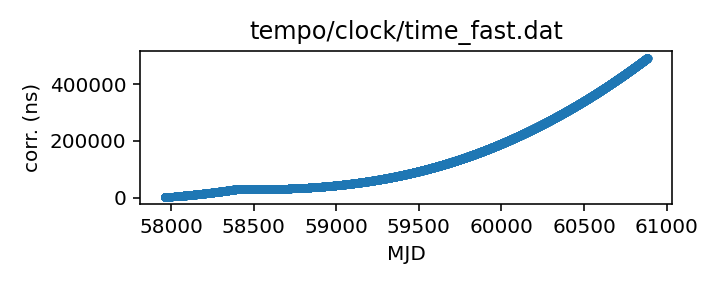
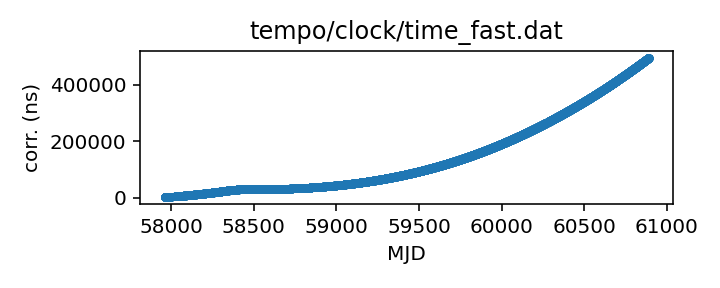
Routine gh-pages update from Github action Mon Aug  4 20:47:59 UTC 2025

diff --git a/status.md b/status.md
@@ -13,18 +13,18 @@ name of each clock file links to a page with more details.
 
 | Name | File | Corrections start | Corrections end | Last check date | Last check result 
 |:--- |:--- | --- | --- | --- |:--- 
-| [GPS to UTC](T2runtime/clock/gps2utc.clk.html) | `T2runtime/clock/gps2utc.clk` | 1993-01-01 MJD 48988.0 | 2025-06-28 MJD 60854.0 | 2025-08-03 | Unchanged 
-| [GPS to UTC (Combined Clock)](T2runtime/clock/gps2utc_cc.clk.html) | `T2runtime/clock/gps2utc_cc.clk` | 1993-01-01 MJD 48988.0 | 2025-06-28 MJD 60854.0 | 2025-08-03 | Unchanged 
-| [GPS to UTC (Corrected)](T2runtime/clock/gps2utc_c0p.clk.html) | `T2runtime/clock/gps2utc_c0p.clk` | 2010-12-29 MJD 55559.0 | 2025-06-28 MJD 60854.0 | 2025-08-03 | Unchanged 
-| [GBT](tempo/clock/time_gbt.dat.html) | `tempo/clock/time_gbt.dat` | 2000-12-31 MJD 51909.5 | 2025-07-28 MJD 60884.5 | 2025-08-03 | Updated 
-| [GBT (TEMPO2 converted from TEMPO)](T2runtime/clock/gbt2gps.clk.html) | `T2runtime/clock/gbt2gps.clk` | 2000-12-31 MJD 51909.5 | 2024-05-18 MJD 60448.5 | 2025-08-03 | **Validation failed** 
-| [Jodrell Bank](T2runtime/clock/jb2gps.clk.html) | `T2runtime/clock/jb2gps.clk` | 2006-10-13 MJD 54021.4 | 2024-11-07 MJD 60621.0 | 2025-07-28 | Unchanged 
-| [Jodrell Bank Roach](T2runtime/clock/jbroach2jb.clk.html) | `T2runtime/clock/jbroach2jb.clk` | 2006-10-13 MJD 54021.4 | 2018-03-20 MJD 58197.6 | 2025-07-28 | Unchanged 
-| [Jodrell Bank DFB](T2runtime/clock/jbdfb2jb.clk.html) | `T2runtime/clock/jbdfb2jb.clk` | 2006-10-13 MJD 54021.4 | 2021-02-22 MJD 59268.0 | 2025-07-28 | Unchanged 
-| [Meerkat (observatory)](T2runtime/clock/mk2utc_observatory.clk.html) | `T2runtime/clock/mk2utc_observatory.clk` | 2019-01-01 MJD 58484.0 | 2025-07-17 MJD 60874.0 | 2025-07-28 | Updated 
-| [Leap seconds](tempo/clock/leap.sec.html) | `tempo/clock/leap.sec` | 1972-07-01 MJD 41499.0 | 2017-01-01 MJD 57754.0 | 2025-08-03 | Unchanged 
-| [UT1 table](tempo/clock/ut1.dat.html) | `tempo/clock/ut1.dat` | 1973-01-02 MJD 41684.0 | 2026-08-08 MJD 61260.0 | 2025-08-03 | Unchanged 
-| [UT1 table](T2runtime/clock/ut1.dat.html) | `T2runtime/clock/ut1.dat` | 1973-01-02 MJD 41684.0 | 2026-08-08 MJD 61260.0 | 2025-08-03 | Unchanged 
+| [GPS to UTC](T2runtime/clock/gps2utc.clk.html) | `T2runtime/clock/gps2utc.clk` | 1993-01-01 MJD 48988.0 | 2025-06-28 MJD 60854.0 | 2025-08-04 | Unchanged 
+| [GPS to UTC (Combined Clock)](T2runtime/clock/gps2utc_cc.clk.html) | `T2runtime/clock/gps2utc_cc.clk` | 1993-01-01 MJD 48988.0 | 2025-06-28 MJD 60854.0 | 2025-08-04 | Unchanged 
+| [GPS to UTC (Corrected)](T2runtime/clock/gps2utc_c0p.clk.html) | `T2runtime/clock/gps2utc_c0p.clk` | 2010-12-29 MJD 55559.0 | 2025-06-28 MJD 60854.0 | 2025-08-04 | Unchanged 
+| [GBT](tempo/clock/time_gbt.dat.html) | `tempo/clock/time_gbt.dat` | 2000-12-31 MJD 51909.5 | 2025-07-28 MJD 60884.5 | 2025-08-04 | Updated 
+| [GBT (TEMPO2 converted from TEMPO)](T2runtime/clock/gbt2gps.clk.html) | `T2runtime/clock/gbt2gps.clk` | 2000-12-31 MJD 51909.5 | 2024-05-18 MJD 60448.5 | 2025-08-04 | **Validation failed** 
+| [Jodrell Bank](T2runtime/clock/jb2gps.clk.html) | `T2runtime/clock/jb2gps.clk` | 2006-10-13 MJD 54021.4 | 2024-11-07 MJD 60621.0 | 2025-08-04 | Unchanged 
+| [Jodrell Bank Roach](T2runtime/clock/jbroach2jb.clk.html) | `T2runtime/clock/jbroach2jb.clk` | 2006-10-13 MJD 54021.4 | 2018-03-20 MJD 58197.6 | 2025-08-04 | Unchanged 
+| [Jodrell Bank DFB](T2runtime/clock/jbdfb2jb.clk.html) | `T2runtime/clock/jbdfb2jb.clk` | 2006-10-13 MJD 54021.4 | 2021-02-22 MJD 59268.0 | 2025-08-04 | Unchanged 
+| [Meerkat (observatory)](T2runtime/clock/mk2utc_observatory.clk.html) | `T2runtime/clock/mk2utc_observatory.clk` | 2019-01-01 MJD 58484.0 | 2025-07-17 MJD 60874.0 | 2025-08-04 | **Failed to download** 
+| [Leap seconds](tempo/clock/leap.sec.html) | `tempo/clock/leap.sec` | 1972-07-01 MJD 41499.0 | 2017-01-01 MJD 57754.0 | 2025-08-04 | Unchanged 
+| [UT1 table](tempo/clock/ut1.dat.html) | `tempo/clock/ut1.dat` | 1973-01-02 MJD 41684.0 | 2026-08-08 MJD 61260.0 | 2025-08-04 | Unchanged 
+| [UT1 table](T2runtime/clock/ut1.dat.html) | `T2runtime/clock/ut1.dat` | 1973-01-02 MJD 41684.0 | 2026-08-08 MJD 61260.0 | 2025-08-04 | Unchanged 
 
 
 
@@ -68,26 +68,26 @@ name of each clock file links to a page with more details.
 
 | Name | File | Corrections start | Corrections end | Last check date | Last check result 
 |:--- |:--- | --- | --- | --- |:--- 
-| [GPS to UTC (TEMPO2)](T2runtime/clock/gpst2utc_tempo2.clk.html) | `T2runtime/clock/gpst2utc_tempo2.clk` | 1993-01-01 MJD 48988.0 | 2024-12-30 MJD 60674.0 | 2025-07-28 | Unchanged 
-| [GBT (TEMPO2)](T2runtime/clock/gbt2gps_tempo2.clk.html) | `T2runtime/clock/gbt2gps_tempo2.clk` | 2000-12-31 MJD 51909.5 | 2020-02-25 MJD 58904.5 | 2025-07-28 | Unchanged 
-| [Jodrell Bank (TEMPO)](tempo/clock/time_jb.dat.html) | `tempo/clock/time_jb.dat` | 2006-10-13 MJD 54021.4 | 2019-05-13 MJD 58616.2 | 2025-07-28 | Unchanged 
-| [VLA](tempo/clock/time_vla.dat.html) | `tempo/clock/time_vla.dat` | 1990-10-27 MJD 48191.2 | 2025-02-10 MJD 60716.2 | 2025-07-28 | Unchanged 
-| [VLA (TEMPO2)](T2runtime/clock/vla2gps.clk.html) | `T2runtime/clock/vla2gps.clk` | 2015-02-01 MJD 57054.6 | 2025-02-10 MJD 60716.2 | 2025-07-28 | Unchanged 
-| [VLA to NIST](T2runtime/clock/vla2nist.clk.html) | `T2runtime/clock/vla2nist.clk` | 1990-10-27 MJD 48191.2 | 1993-11-13 MJD 49304.0 | 2025-07-28 | Unchanged 
-| [FAST](tempo/clock/time_fast.dat.html) | `tempo/clock/time_fast.dat` | 2017-07-27 MJD 57961.0 | 2025-07-27 MJD 60884.0 | 2025-07-28 | Updated 
-| [WSRT](T2runtime/clock/wsrt2gps.clk.html) | `T2runtime/clock/wsrt2gps.clk` | 1999-01-01 MJD 51179.5 | 2015-06-29 MJD 57202.1 | 2025-07-28 | Unchanged 
-| [WSRT (TEMPO)](tempo/clock/time_wsrt.dat.html) | `tempo/clock/time_wsrt.dat` | 1987-07-24 MJD 47000.0 | 2007-12-24 MJD 54458.0 | 2025-07-28 | **Validation failed** 
-| [Parkes](T2runtime/clock/pks2gps.clk.html) | `T2runtime/clock/pks2gps.clk` | 1858-11-17 MJD 0.0 | 2025-06-30 MJD 60856.1 | 2025-07-28 | Updated 
-| [Parkes (TEMPO)](tempo/clock/time_pks.dat.html) | `tempo/clock/time_pks.dat` | 1979-05-07 MJD 44000.0 | 2011-07-03 MJD 55745.8 | 2025-07-28 | Unchanged 
-| [SRT](T2runtime/clock/srt2gps.clk.html) | `T2runtime/clock/srt2gps.clk` | 2013-03-20 MJD 56371.0 | 2019-12-11 MJD 58828.0 | 2025-07-28 | Unchanged 
-| [Effelsberg](T2runtime/clock/eff2gps.clk.html) | `T2runtime/clock/eff2gps.clk` | 1993-11-29 MJD 49320.0 | 2015-06-22 MJD 57195.5 | 2025-07-28 | Unchanged 
-| [Effelsberg Asterix/PSRix](T2runtime/clock/effix2gps.clk.html) | `T2runtime/clock/effix2gps.clk` | 2011-01-01 MJD 55562.5 | 2021-03-21 MJD 59294.5 | 2025-07-28 | Unchanged 
-| [LEAP](T2runtime/clock/leap2effix.clk.html) | `T2runtime/clock/leap2effix.clk` | 2012-10-29 MJD 56230.0 | 2014-03-04 MJD 56720.0 | 2025-07-28 | Unchanged 
-| [NUPPI](tempo/clock/time_nuppi.dat.html) | `tempo/clock/time_nuppi.dat` | 2005-03-07 MJD 53436.0 | 2015-11-08 MJD 57334.6 | 2025-07-28 | Unchanged 
-| [Meerkat (TEMPO2)](T2runtime/clock/mk2utc.clk.html) | `T2runtime/clock/mk2utc.clk` | 2019-01-01 MJD 58484.0 | 2024-09-23 MJD 60576.9 | 2025-07-28 | **Validation failed** 
-| [MOST](T2runtime/clock/mo2gps.clk.html) | `T2runtime/clock/mo2gps.clk` | 2003-12-27 MJD 53000.0 | 2018-09-06 MJD 58367.0 | 2025-07-28 | Unchanged 
-| [Nancay to obspm](T2runtime/clock/ncyobs2obspm.clk.html) | `T2runtime/clock/ncyobs2obspm.clk` | 1988-05-18 MJD 47299.6 | 2024-12-30 MJD 60674.0 | 2025-07-28 | Unchanged 
-| [obspm](T2runtime/clock/obspm2gps.clk.html) | `T2runtime/clock/obspm2gps.clk` | 2003-12-01 MJD 52974.0 | 2023-10-27 MJD 60244.0 | 2025-07-28 | Unchanged 
+| [GPS to UTC (TEMPO2)](T2runtime/clock/gpst2utc_tempo2.clk.html) | `T2runtime/clock/gpst2utc_tempo2.clk` | 1993-01-01 MJD 48988.0 | 2024-12-30 MJD 60674.0 | 2025-08-04 | Unchanged 
+| [GBT (TEMPO2)](T2runtime/clock/gbt2gps_tempo2.clk.html) | `T2runtime/clock/gbt2gps_tempo2.clk` | 2000-12-31 MJD 51909.5 | 2020-02-25 MJD 58904.5 | 2025-08-04 | Unchanged 
+| [Jodrell Bank (TEMPO)](tempo/clock/time_jb.dat.html) | `tempo/clock/time_jb.dat` | 2006-10-13 MJD 54021.4 | 2019-05-13 MJD 58616.2 | 2025-08-04 | **Failed to download** 
+| [VLA](tempo/clock/time_vla.dat.html) | `tempo/clock/time_vla.dat` | 1990-10-27 MJD 48191.2 | 2025-02-10 MJD 60716.2 | 2025-08-04 | Unchanged 
+| [VLA (TEMPO2)](T2runtime/clock/vla2gps.clk.html) | `T2runtime/clock/vla2gps.clk` | 2015-02-01 MJD 57054.6 | 2025-02-10 MJD 60716.2 | 2025-08-04 | Unchanged 
+| [VLA to NIST](T2runtime/clock/vla2nist.clk.html) | `T2runtime/clock/vla2nist.clk` | 1990-10-27 MJD 48191.2 | 1993-11-13 MJD 49304.0 | 2025-08-04 | Unchanged 
+| [FAST](tempo/clock/time_fast.dat.html) | `tempo/clock/time_fast.dat` | 2017-07-27 MJD 57961.0 | 2025-08-03 MJD 60891.0 | 2025-08-04 | Updated 
+| [WSRT](T2runtime/clock/wsrt2gps.clk.html) | `T2runtime/clock/wsrt2gps.clk` | 1999-01-01 MJD 51179.5 | 2015-06-29 MJD 57202.1 | 2025-08-04 | Unchanged 
+| [WSRT (TEMPO)](tempo/clock/time_wsrt.dat.html) | `tempo/clock/time_wsrt.dat` | 1987-07-24 MJD 47000.0 | 2007-12-24 MJD 54458.0 | 2025-08-04 | **Validation failed** 
+| [Parkes](T2runtime/clock/pks2gps.clk.html) | `T2runtime/clock/pks2gps.clk` | 1858-11-17 MJD 0.0 | 2025-06-30 MJD 60856.1 | 2025-08-04 | Unchanged 
+| [Parkes (TEMPO)](tempo/clock/time_pks.dat.html) | `tempo/clock/time_pks.dat` | 1979-05-07 MJD 44000.0 | 2011-07-03 MJD 55745.8 | 2025-08-04 | Unchanged 
+| [SRT](T2runtime/clock/srt2gps.clk.html) | `T2runtime/clock/srt2gps.clk` | 2013-03-20 MJD 56371.0 | 2019-12-11 MJD 58828.0 | 2025-08-04 | Unchanged 
+| [Effelsberg](T2runtime/clock/eff2gps.clk.html) | `T2runtime/clock/eff2gps.clk` | 1993-11-29 MJD 49320.0 | 2015-06-22 MJD 57195.5 | 2025-08-04 | Unchanged 
+| [Effelsberg Asterix/PSRix](T2runtime/clock/effix2gps.clk.html) | `T2runtime/clock/effix2gps.clk` | 2011-01-01 MJD 55562.5 | 2021-03-21 MJD 59294.5 | 2025-08-04 | Unchanged 
+| [LEAP](T2runtime/clock/leap2effix.clk.html) | `T2runtime/clock/leap2effix.clk` | 2012-10-29 MJD 56230.0 | 2014-03-04 MJD 56720.0 | 2025-08-04 | Unchanged 
+| [NUPPI](tempo/clock/time_nuppi.dat.html) | `tempo/clock/time_nuppi.dat` | 2005-03-07 MJD 53436.0 | 2015-11-08 MJD 57334.6 | 2025-08-04 | Unchanged 
+| [Meerkat (TEMPO2)](T2runtime/clock/mk2utc.clk.html) | `T2runtime/clock/mk2utc.clk` | 2019-01-01 MJD 58484.0 | 2024-09-23 MJD 60576.9 | 2025-08-04 | **Validation failed** 
+| [MOST](T2runtime/clock/mo2gps.clk.html) | `T2runtime/clock/mo2gps.clk` | 2003-12-27 MJD 53000.0 | 2018-09-06 MJD 58367.0 | 2025-08-04 | Unchanged 
+| [Nancay to obspm](T2runtime/clock/ncyobs2obspm.clk.html) | `T2runtime/clock/ncyobs2obspm.clk` | 1988-05-18 MJD 47299.6 | 2024-12-30 MJD 60674.0 | 2025-08-04 | Unchanged 
+| [obspm](T2runtime/clock/obspm2gps.clk.html) | `T2runtime/clock/obspm2gps.clk` | 2003-12-01 MJD 52974.0 | 2023-10-27 MJD 60244.0 | 2025-08-04 | Unchanged 
 
 
 ### Further information:

diff --git a/T2runtime/clock/gbt2gps.clk.md b/T2runtime/clock/gbt2gps.clk.md
@@ -25,12 +25,11 @@ If questions arise about the conversion, contact Anne Archibald
 | Clock file start | 2000-12-31 MJD 51909.5 |
 | Clock file end | 2024-05-18 MJD 60448.5 |
 | Update interval (days) | 1 |
-| Last update attempt | 2025-08-03 |
+| Last update attempt | 2025-08-04 |
 | Last update result | Validation failed |
 
 Log entries from the last few update attempts:
 ```
-2025-07-25 20:45:03.546 - Validation failed: New version of T2runtime/clock/gbt2gps.clk MJDs differ from old version where they overlap in 8407 places
 2025-07-26 20:42:59.898 - Validation failed: New version of T2runtime/clock/gbt2gps.clk MJDs differ from old version where they overlap in 8407 places
 2025-07-27 20:43:45.400 - Validation failed: New version of T2runtime/clock/gbt2gps.clk MJDs differ from old version where they overlap in 8407 places
 2025-07-28 20:46:12.676 - Validation failed: New version of T2runtime/clock/gbt2gps.clk MJDs differ from old version where they overlap in 8407 places
@@ -40,6 +39,7 @@ Log entries from the last few update attempts:
 2025-08-01 20:45:26.633 - Validation failed: New version of T2runtime/clock/gbt2gps.clk MJDs differ from old version where they overlap in 8407 places
 2025-08-02 20:43:28.036 - Validation failed: New version of T2runtime/clock/gbt2gps.clk MJDs differ from old version where they overlap in 8407 places
 2025-08-03 20:44:46.538 - Validation failed: New version of T2runtime/clock/gbt2gps.clk MJDs differ from old version where they overlap in 8407 places
+2025-08-04 20:46:54.340 - Validation failed: New version of T2runtime/clock/gbt2gps.clk MJDs differ from old version where they overlap in 8407 places
 ```
 [Full log](https://raw.githubusercontent.com/ipta/pulsar-clock-corrections/main/log/T2runtime/clock/gbt2gps.clk.log)
 

diff --git a/T2runtime/clock/mk2utc.clk.md b/T2runtime/clock/mk2utc.clk.md
@@ -17,12 +17,11 @@ up-to-date.
 | Clock file start | 2019-01-01 MJD 58484.0 |
 | Clock file end | 2024-09-23 MJD 60576.9 |
 | Update interval (days) | 7 |
-| Last update attempt | 2025-07-28 |
+| Last update attempt | 2025-08-04 |
 | Last update result | Validation failed |
 
 Log entries from the last few update attempts:
 ```
-2025-05-26 20:41:15.585 - Validation failed: New version of T2runtime/clock/mk2utc.clk MJDs differ from old version where they overlap in 8252 places
 2025-06-02 20:44:05.618 - Validation failed: New version of T2runtime/clock/mk2utc.clk MJDs differ from old version where they overlap in 8252 places
 2025-06-09 20:44:07.749 - Validation failed: New version of T2runtime/clock/mk2utc.clk MJDs differ from old version where they overlap in 8252 places
 2025-06-16 20:44:25.349 - Validation failed: New version of T2runtime/clock/mk2utc.clk MJDs differ from old version where they overlap in 8252 places
@@ -32,6 +31,7 @@ Log entries from the last few update attempts:
 2025-07-14 20:45:04.104 - Validation failed: New version of T2runtime/clock/mk2utc.clk MJDs differ from old version where they overlap in 8252 places
 2025-07-21 20:45:52.104 - Validation failed: New version of T2runtime/clock/mk2utc.clk MJDs differ from old version where they overlap in 8252 places
 2025-07-28 20:46:36.482 - Validation failed: New version of T2runtime/clock/mk2utc.clk MJDs differ from old version where they overlap in 8252 places
+2025-08-04 20:47:32.845 - Validation failed: New version of T2runtime/clock/mk2utc.clk MJDs differ from old version where they overlap in 8252 places
 ```
 [Full log](https://raw.githubusercontent.com/ipta/pulsar-clock-corrections/main/log/T2runtime/clock/mk2utc.clk.log)
 

diff --git a/tempo/clock/time_wsrt.dat.md b/tempo/clock/time_wsrt.dat.md
@@ -20,12 +20,11 @@ should be the same information.
 | Clock file start | 1987-07-24 MJD 47000.0 |
 | Clock file end | 2007-12-24 MJD 54458.0 |
 | Update interval (days) | 7 |
-| Last update attempt | 2025-07-28 |
+| Last update attempt | 2025-08-04 |
 | Last update result | Validation failed |
 
 Log entries from the last few update attempts:
 ```
-2025-05-26 20:41:03.017 - Validation failed: New version of tempo/clock/time_wsrt.dat MJDs differ from old version where they overlap in 5 places
 2025-06-02 20:43:47.127 - Validation failed: New version of tempo/clock/time_wsrt.dat MJDs differ from old version where they overlap in 5 places
 2025-06-09 20:43:57.091 - Validation failed: New version of tempo/clock/time_wsrt.dat MJDs differ from old version where they overlap in 5 places
 2025-06-16 20:43:49.587 - Validation failed: New version of tempo/clock/time_wsrt.dat MJDs differ from old version where they overlap in 5 places
@@ -35,6 +34,7 @@ Log entries from the last few update attempts:
 2025-07-14 20:44:50.714 - Validation failed: New version of tempo/clock/time_wsrt.dat MJDs differ from old version where they overlap in 5 places
 2025-07-21 20:45:22.516 - Validation failed: New version of tempo/clock/time_wsrt.dat MJDs differ from old version where they overlap in 5 places
 2025-07-28 20:46:15.664 - Validation failed: New version of tempo/clock/time_wsrt.dat MJDs differ from old version where they overlap in 5 places
+2025-08-04 20:47:14.935 - Validation failed: New version of tempo/clock/time_wsrt.dat MJDs differ from old version where they overlap in 5 places
 ```
 [Full log](https://raw.githubusercontent.com/ipta/pulsar-clock-corrections/main/log/tempo/clock/time_wsrt.dat.log)
 

diff --git a/T2runtime/clock/mk2utc_observatory.clk.md b/T2runtime/clock/mk2utc_observatory.clk.md
@@ -21,12 +21,11 @@ If questions arise, contact Ryan Shannon <rshannon@swin.edu.au>
 | Clock file start | 2019-01-01 MJD 58484.0 |
 | Clock file end | 2025-07-17 MJD 60874.0 |
 | Update interval (days) | 7 |
-| Last update attempt | 2025-07-28 |
-| Last update result | Updated |
+| Last update attempt | 2025-08-04 |
+| Last update result | Failed to download |
 
 Log entries from the last few update attempts:
 ```
-2025-05-26 20:41:14.027 - Updated
 2025-06-02 20:44:03.921 - Failed to download: <urlopen error _ssl.c:999: The handshake operation timed out>
 2025-06-09 20:44:06.297 - Unchanged
 2025-06-16 20:44:23.561 - Unchanged
@@ -36,6 +35,7 @@ Log entries from the last few update attempts:
 2025-07-14 20:45:02.678 - Unchanged
 2025-07-21 20:45:50.761 - Unchanged
 2025-07-28 20:46:35.112 - Updated
+2025-08-04 20:47:31.397 - Failed to download: <urlopen error _ssl.c:999: The handshake operation timed out>
 ```
 [Full log](https://raw.githubusercontent.com/ipta/pulsar-clock-corrections/main/log/T2runtime/clock/mk2utc_observatory.clk.log)
 

diff --git a/tempo/clock/time_gbt.dat.md b/tempo/clock/time_gbt.dat.md
@@ -38,12 +38,11 @@ If questions arise, contact Ryan S. Lynch <rlynch@nrao.edu>.
 | Clock file start | 2000-12-31 MJD 51909.5 |
 | Clock file end | 2025-07-28 MJD 60884.5 |
 | Update interval (days) | 1 |
-| Last update attempt | 2025-08-03 |
+| Last update attempt | 2025-08-04 |
 | Last update result | Updated |
 
 Log entries from the last few update attempts:
 ```
-2025-07-25 20:45:03.488 - Updated
 2025-07-26 20:42:59.841 - Updated
 2025-07-27 20:43:45.338 - Failed to download: <urlopen error timed out>
 2025-07-28 20:46:12.393 - Updated
@@ -53,12 +52,13 @@ Log entries from the last few update attempts:
 2025-08-01 20:45:26.574 - Updated
 2025-08-02 20:43:27.977 - Updated
 2025-08-03 20:44:46.478 - Updated
+2025-08-04 20:46:53.897 - Updated
 ```
 [Full log](https://raw.githubusercontent.com/ipta/pulsar-clock-corrections/main/log/tempo/clock/time_gbt.dat.log)
 
 Leading comments from clock file:
 
-     -2271.50       0.0        -0.486 1    32767-dec
+     -2271.50       0.0        -0.486 1    32766-dec
 
 
 

diff --git a/tempo/clock/time_fast.dat.md b/tempo/clock/time_fast.dat.md
@@ -14,14 +14,13 @@ This file is pulled from the FAST_ClockFile repository.
 | Format | tempo |
 | Bogus last correction | False |
 | Clock file start | 2017-07-27 MJD 57961.0 |
-| Clock file end | 2025-07-27 MJD 60884.0 |
+| Clock file end | 2025-08-03 MJD 60891.0 |
 | Update interval (days) | 7 |
-| Last update attempt | 2025-07-28 |
+| Last update attempt | 2025-08-04 |
 | Last update result | Updated |
 
 Log entries from the last few update attempts:
 ```
-2025-05-26 20:41:02.533 - Updated
 2025-06-02 20:43:46.376 - Updated
 2025-06-09 20:43:56.626 - Updated
 2025-06-16 20:43:48.812 - Unchanged
@@ -31,6 +30,7 @@ Log entries from the last few update attempts:
 2025-07-14 20:44:50.198 - Updated
 2025-07-21 20:45:21.770 - Updated
 2025-07-28 20:46:15.169 - Updated
+2025-08-04 20:47:14.380 - Updated
 ```
 [Full log](https://raw.githubusercontent.com/ipta/pulsar-clock-corrections/main/log/tempo/clock/time_fast.dat.log)
 

diff --git a/tempo/clock/time_pks.dat.md b/tempo/clock/time_pks.dat.md
@@ -20,12 +20,11 @@ telescopes in the same file, distinguished only by observatory code.
 | Clock file start | 1979-05-07 MJD 44000.0 |
 | Clock file end | 2011-07-03 MJD 55745.8 |
 | Update interval (days) | 7 |
-| Last update attempt | 2025-07-28 |
+| Last update attempt | 2025-08-04 |
 | Last update result | Unchanged |
 
 Log entries from the last few update attempts:
 ```
-2025-05-26 20:41:07.727 - Unchanged
 2025-06-02 20:43:51.248 - Unchanged
 2025-06-09 20:44:01.920 - Unchanged
 2025-06-16 20:43:53.586 - Unchanged
@@ -35,6 +34,7 @@ Log entries from the last few update attempts:
 2025-07-14 20:44:55.018 - Unchanged
 2025-07-21 20:45:36.983 - Failed to download: The read operation timed out
 2025-07-28 20:46:20.512 - Unchanged
+2025-08-04 20:47:19.527 - Unchanged
 ```
 [Full log](https://raw.githubusercontent.com/ipta/pulsar-clock-corrections/main/log/tempo/clock/time_pks.dat.log)
 

diff --git a/tempo/clock/time_jb.dat.md b/tempo/clock/time_jb.dat.md
@@ -17,12 +17,11 @@ up-to-date.
 | Clock file start | 2006-10-13 MJD 54021.4 |
 | Clock file end | 2019-05-13 MJD 58616.2 |
 | Update interval (days) | 7 |
-| Last update attempt | 2025-07-28 |
-| Last update result | Unchanged |
+| Last update attempt | 2025-08-04 |
+| Last update result | Failed to download |
 
 Log entries from the last few update attempts:
 ```
-2025-05-26 20:41:00.241 - Unchanged
 2025-06-02 20:43:43.071 - Unchanged
 2025-06-09 20:43:54.389 - Unchanged
 2025-06-16 20:43:45.647 - Unchanged
@@ -32,6 +31,7 @@ Log entries from the last few update attempts:
 2025-07-14 20:44:47.638 - Unchanged
 2025-07-21 20:45:19.761 - Unchanged
 2025-07-28 20:46:13.371 - Unchanged
+2025-08-04 20:47:04.384 - Failed to download: The read operation timed out
 ```
 [Full log](https://raw.githubusercontent.com/ipta/pulsar-clock-corrections/main/log/tempo/clock/time_jb.dat.log)
 

diff --git a/T2runtime/clock/gps2utc_c0p.clk.md b/T2runtime/clock/gps2utc_c0p.clk.md
@@ -30,12 +30,11 @@ about the BIPM's published corrections, contact <tai@bipm.org>.
 | Clock file start | 2010-12-29 MJD 55559.0 |
 | Clock file end | 2025-06-28 MJD 60854.0 |
 | Update interval (days) | 1 |
-| Last update attempt | 2025-08-03 |
+| Last update attempt | 2025-08-04 |
 | Last update result | Unchanged |
 
 Log entries from the last few update attempts:
 ```
-2025-07-25 20:45:02.585 - Unchanged
 2025-07-26 20:42:59.434 - Unchanged
 2025-07-27 20:43:35.195 - Unchanged
 2025-07-28 20:46:12.007 - Unchanged
@@ -45,6 +44,7 @@ Log entries from the last few update attempts:
 2025-08-01 20:45:26.250 - Unchanged
 2025-08-02 20:43:27.540 - Unchanged
 2025-08-03 20:44:45.384 - Unchanged
+2025-08-04 20:46:53.566 - Unchanged
 ```
 [Full log](https://raw.githubusercontent.com/ipta/pulsar-clock-corrections/main/log/T2runtime/clock/gps2utc_c0p.clk.log)
 

diff --git a/T2runtime/clock/gps2utc_cc.clk.md b/T2runtime/clock/gps2utc_cc.clk.md
@@ -29,12 +29,11 @@ about the BIPM's published corrections, contact <tai@bipm.org>.
 | Clock file start | 1993-01-01 MJD 48988.0 |
 | Clock file end | 2025-06-28 MJD 60854.0 |
 | Update interval (days) | 1 |
-| Last update attempt | 2025-08-03 |
+| Last update attempt | 2025-08-04 |
 | Last update result | Unchanged |
 
 Log entries from the last few update attempts:
 ```
-2025-07-25 20:45:02.577 - Unchanged
 2025-07-26 20:42:59.427 - Unchanged
 2025-07-27 20:43:35.187 - Unchanged
 2025-07-28 20:46:11.998 - Unchanged
@@ -44,6 +43,7 @@ Log entries from the last few update attempts:
 2025-08-01 20:45:26.242 - Unchanged
 2025-08-02 20:43:27.532 - Unchanged
 2025-08-03 20:44:45.376 - Unchanged
+2025-08-04 20:46:53.558 - Unchanged
 ```
 [Full log](https://raw.githubusercontent.com/ipta/pulsar-clock-corrections/main/log/T2runtime/clock/gps2utc_cc.clk.log)
 

diff --git a/T2runtime/clock/gps2utc.clk.md b/T2runtime/clock/gps2utc.clk.md
@@ -32,12 +32,11 @@ about the BIPM's published corrections, contact <tai@bipm.org>.
 | Clock file start | 1993-01-01 MJD 48988.0 |
 | Clock file end | 2025-06-28 MJD 60854.0 |
 | Update interval (days) | 1 |
-| Last update attempt | 2025-08-03 |
+| Last update attempt | 2025-08-04 |
 | Last update result | Unchanged |
 
 Log entries from the last few update attempts:
 ```
-2025-07-25 20:45:02.554 - Unchanged
 2025-07-26 20:42:59.404 - Unchanged
 2025-07-27 20:43:35.165 - Unchanged
 2025-07-28 20:46:11.976 - Unchanged
@@ -47,6 +46,7 @@ Log entries from the last few update attempts:
 2025-08-01 20:45:26.219 - Unchanged
 2025-08-02 20:43:27.510 - Unchanged
 2025-08-03 20:44:45.353 - Unchanged
+2025-08-04 20:46:53.536 - Unchanged
 ```
 [Full log](https://raw.githubusercontent.com/ipta/pulsar-clock-corrections/main/log/T2runtime/clock/gps2utc.clk.log)
 
